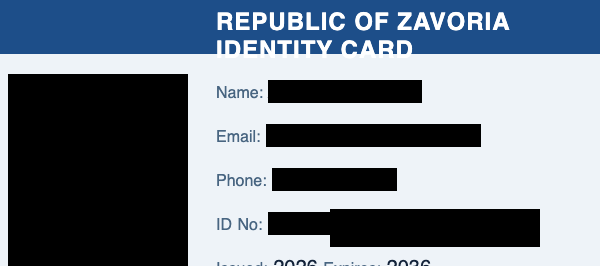
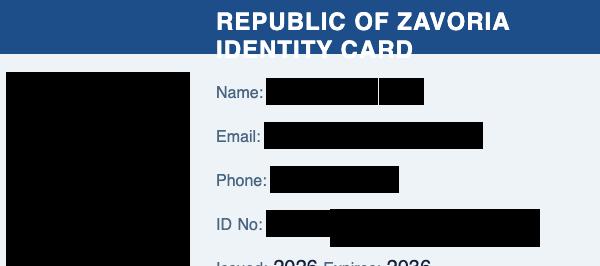
wip(surface): real egress image in the fixture; scripted end-to-end passes

diff --git a/adk-surface/web/src/fixture/vision.ts b/adk-surface/web/src/fixture/vision.ts
@@ -64,7 +64,7 @@ function image(id: string, index: number, url: string, fields: Partial<EvidenceI
   };
 }
 
-const EGRESS = "sha256:bd2be2a4b8a3a4f6d0b0a1fd0c8d7d6c9e8b5f4a3c2d1e0f9a8b7c6d5e4f3a29";
+const EGRESS = "sha256:6b644f480a4058281fbdb2f2e67821a69f702ea65f7c70552289a6add1f31c7c";
 
 /** The identity card's egress copy, as the gate drew it: the portrait and personal text covered. */
 function cardImage(id: string): EvidenceImage {
@@ -72,15 +72,16 @@ function cardImage(id: string): EvidenceImage {
     digest: EGRESS,
     width: 600,
     height: 380,
-    caption: "to api.anthropic.com as document_crop · 1 face · the whole person is covered, 5 personal details covered",
-    coveredText: "1 face, 5 personal text",
+    caption: "to api.anthropic.com as document_crop · 1 face · the whole person is covered, 6 personal details covered",
+    coveredText: "1 face, 6 personal text",
     regions: [
-      { class: "face", tag: "face · whole person", shortTag: "face", x0: 8, y0: 74, x1: 188, y1: 302 },
-      { class: "personalText", tag: "personal text", shortTag: "text", x0: 268, y0: 80, x1: 422, y1: 103 },
-      { class: "personalText", tag: "personal text", shortTag: "text", x0: 266, y0: 124, x1: 481, y1: 147 },
-      { class: "personalText", tag: "personal text", shortTag: "text", x0: 272, y0: 168, x1: 397, y1: 191 },
-      { class: "personalText", tag: "personal text", shortTag: "text", x0: 268, y0: 212, x1: 382, y1: 235 },
-      { class: "personalText", tag: "personal text", shortTag: "text", x0: 216, y0: 80, x1: 264, y1: 102 },
+      { class: "face", tag: "face · whole person", shortTag: "face", x0: 6, y0: 72, x1: 190, y1: 304 },
+      { class: "personalText", tag: "personal text", shortTag: "text", x0: 266, y0: 78, x1: 306, y1: 105 },
+      { class: "personalText", tag: "personal text", shortTag: "text", x0: 306, y0: 78, x1: 378, y1: 105 },
+      { class: "personalText", tag: "personal text", shortTag: "text", x0: 379, y0: 78, x1: 424, y1: 105 },
+      { class: "personalText", tag: "personal text", shortTag: "text", x0: 264, y0: 122, x1: 483, y1: 149 },
+      { class: "personalText", tag: "personal text", shortTag: "text", x0: 270, y0: 166, x1: 399, y1: 193 },
+      { class: "personalText", tag: "personal text", shortTag: "text", x0: 266, y0: 210, x1: 384, y1: 237 },
     ],
   });
 }
@@ -93,11 +94,11 @@ function media(id: string, overrides: Partial<CardMedia> = {}): CardMedia {
     what: "Document crop",
     covered: [
       { class: "face", count: 1, text: "1 face" },
-      { class: "personalText", count: 5, text: "5 personal text" },
+      { class: "personalText", count: 6, text: "6 personal text" },
     ],
     coveredAll: false,
-    costText: "Up to $0.0068",
-    costDetail: "304 image tokens",
+    costText: "Up to $0.0070",
+    costDetail: "308 image tokens",
     cutFrom: "id-card.png",
     cutNote: "nothing resized",
     keptText: `Kept as evidence until ${day(30)}`,
@@ -316,7 +317,7 @@ export function visionCard(state: VisionState): DecisionCard {
           title: "The image that left",
           images: [sent],
           costText: "$0.0024",
-          costDetail: "304 image tokens, 63 answer tokens",
+          costDetail: "308 image tokens, 63 answer tokens",
           keptText: `As evidence until ${day(30)}`,
           canChange: false,
           replaces: changed ? EGRESS : null,

diff --git a/adk-surface/web/src/evidence/labels.ts b/adk-surface/web/src/evidence/labels.ts
@@ -51,7 +51,7 @@ export const evidenceLabels = {
   newDigestPending: "Made when you change something",
   editorHint: "Drag the edges to cut the image smaller. Draw a box to cover more of it. You can cover more, never less.",
   editorNote:
-    "The new image is saved and recorded. The call is then held again with it, and only the new image can be sent.",
+    "The new image is saved and recorded. The call is then held again with it, and only the new image can be sent. The egress gate covers it again before it leaves, so the new card names the digest that would leave.",
   useThisImage: "Use this image",
   heldAgain: (to: string, from: string) => `Held again with ${to}, which replaces ${from}. Answer the new card.`,
   cropHandle: (edge: string) => `Move the ${edge} edge`,

diff --git a/adk-surface/src/evidence.rs b/adk-surface/src/evidence.rs
@@ -770,6 +770,7 @@ pub(crate) fn evidence_href(id: &str, index: usize) -> String {
 }
 
 /// Where decision `id` opens in the web home: `/ui/decisions/<id>`.
+#[cfg(feature = "tui")]
 pub(crate) fn decision_path(id: &str) -> String {
     format!("/ui/decisions/{}", percent_segment(id))
 }
